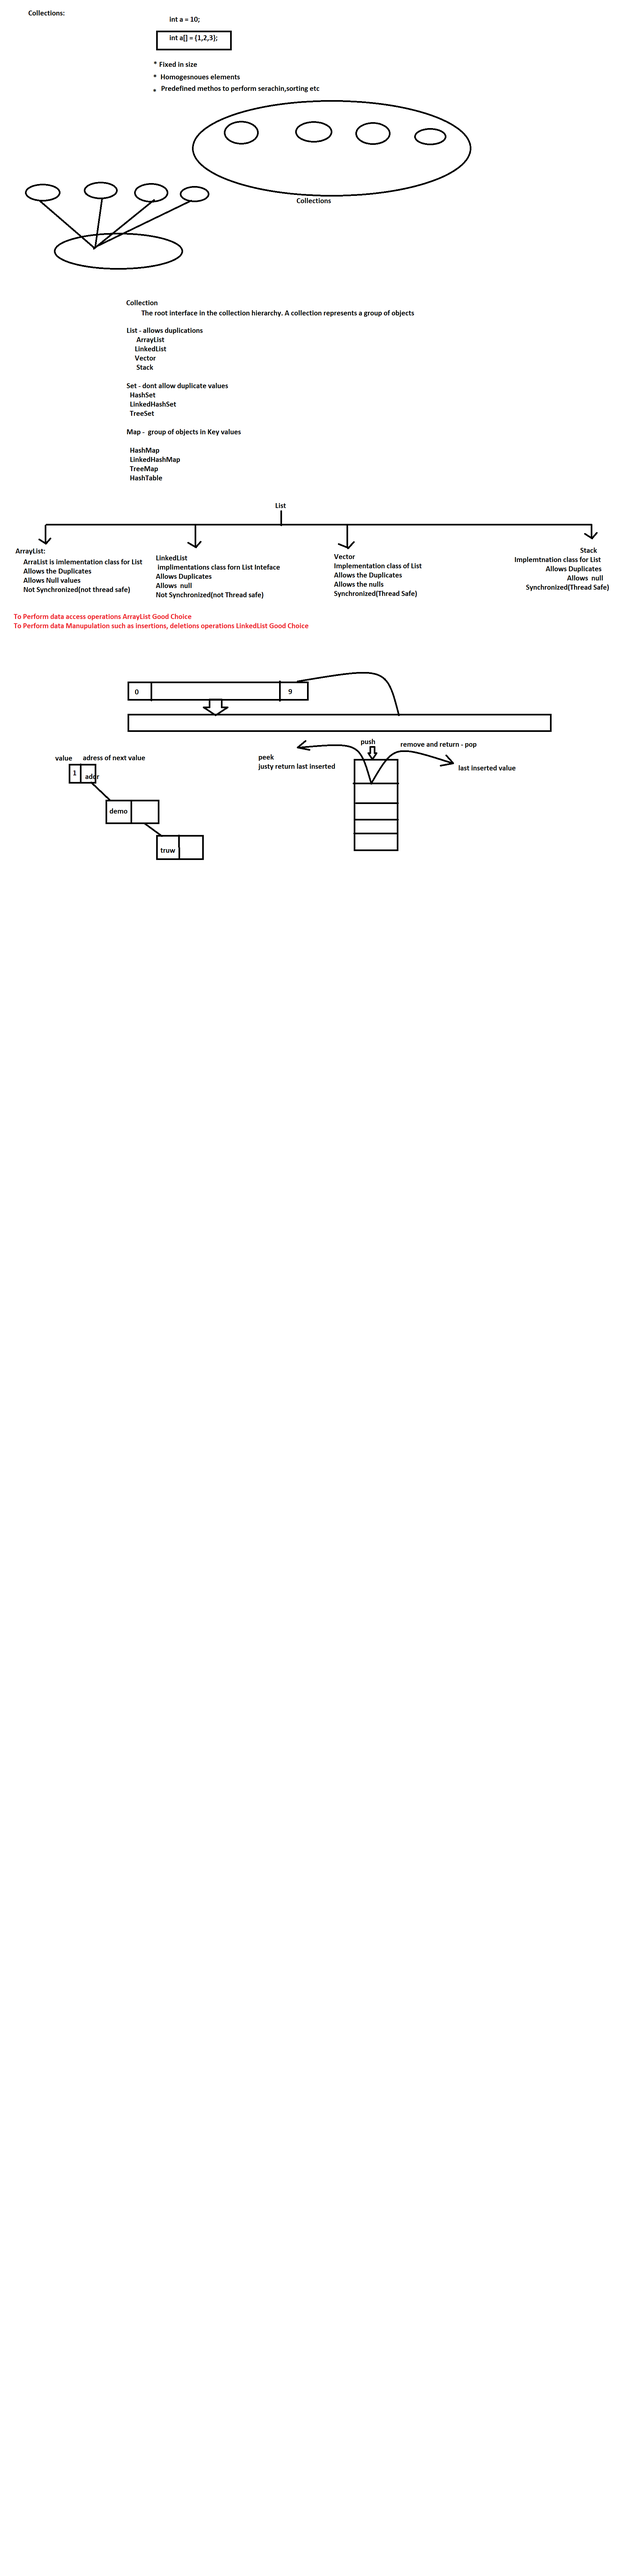
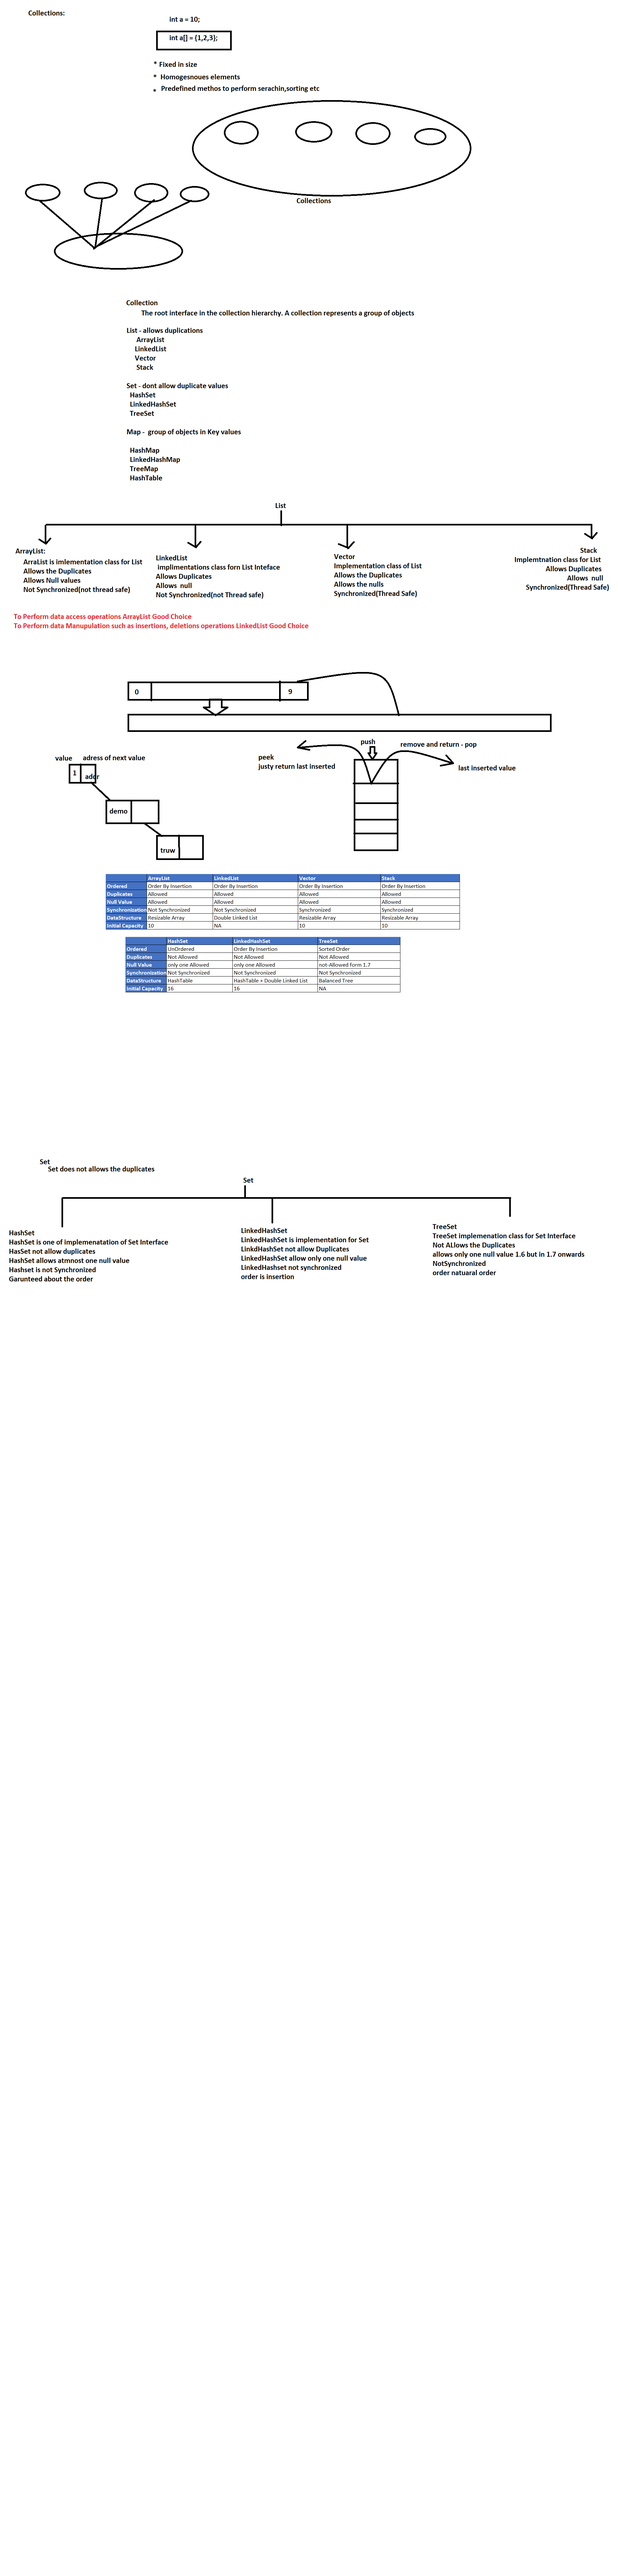
Set Catagoery

diff --git a/Collections/Set/LinkedHashSetDemo.java b/Collections/Set/LinkedHashSetDemo.java
@@ -1,0 +1,29 @@
+import java.util.*;
+
+public class LinkedHashSetDemo{
+	
+	public static void main(String[] args){
+		
+		LinkedHashSet hs = new LinkedHashSet();
+		
+		hs.add("Nokia");
+		hs.add("Samsung");
+		hs.add("HTC");
+		hs.add("Asus");
+		hs.add("BlackBerry");
+		hs.add("Sony");
+		hs.add("Samsung");
+		hs.add(null);
+		hs.add(null);
+		
+		System.out.println(hs);
+		
+		Iterator ir = hs.iterator();
+		
+		
+		while(ir.hasNext()){
+			System.out.println(ir.next());
+		}
+		
+	}
+}

diff --git a/Collections/Set/HashSetDemo.java b/Collections/Set/HashSetDemo.java
@@ -1,0 +1,29 @@
+import java.util.*;
+
+public class HashSetDemo{
+	
+	public static void main(String[] args){
+		
+		HashSet hs = new HashSet();
+		
+		hs.add("Nokia");
+		hs.add("Samsung");
+		hs.add("HTC");
+		hs.add("Asus");
+		hs.add("BlackBerry");
+		hs.add("Sony");
+		hs.add("Samsung");
+		hs.add(null);
+		hs.add(null);
+		
+		System.out.println(hs);
+		
+		Iterator ir = hs.iterator();
+		
+		
+		while(ir.hasNext()){
+			System.out.println(ir.next());
+		}
+		
+	}
+}

diff --git a/Collections/Set/TreeSetDemo.java b/Collections/Set/TreeSetDemo.java
@@ -1,0 +1,22 @@
+import java.util.*;
+
+public class TreeSetDemo{
+	
+	public static void main(String[] args){
+		
+		TreeSet hs = new TreeSet();
+		
+		hs.add("Nokia");
+		hs.add("Samsung");
+		hs.add("HTC");
+		hs.add("Asus");
+		hs.add("BlackBerry");
+		hs.add("Sony");
+		hs.add("Samsung");
+		hs.add("Apple");
+		
+		System.out.println(hs);
+		
+		
+	}
+}
